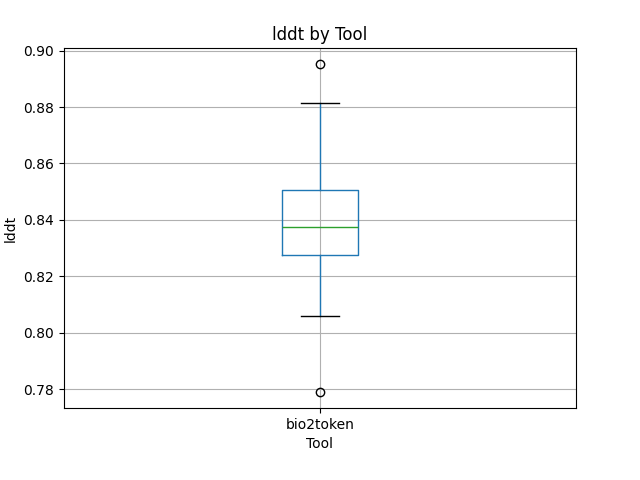
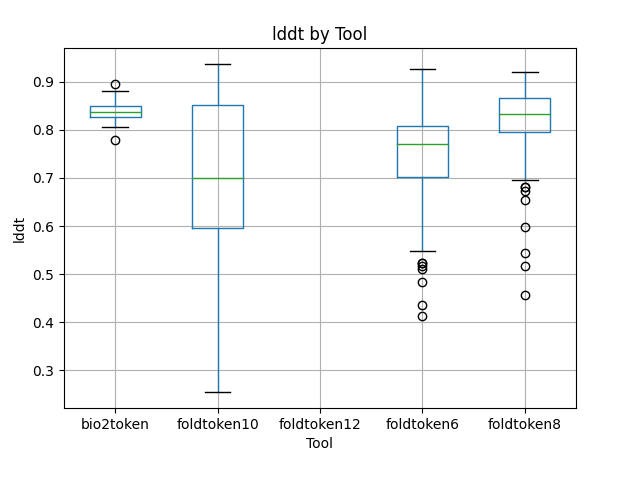
finished plots

diff --git a/tokenizer_benchmark/plot_results.py b/tokenizer_benchmark/plot_results.py
@@ -57,11 +57,11 @@ def boxplot(df, score, output_file):
 def main():
     bio2token_df = get_bio2token_data()
     foldtoken_df=get_foldtoken_data()
-    tokenizer_df=pd.concat(bio2token_df,foldtoken_df)
-    boxplot(tokenizer_df, "tmscore", "similarity_score/plots/tmscore_boxplot_bio2token.png")
-    boxplot(tokenizer_df, "tmscore_fs", "similarity_score/plots/tmscore_fs_boxplot_bio2token.png")
-    boxplot(tokenizer_df, "rmsd", "similarity_score/plots/rmsd_boxplot_bio2token.png")
-    boxplot(tokenizer_df, "lddt", "similarity_score/plots/lddt_boxplot_bio2token.png")
+    tokenizer_df=pd.concat([bio2token_df,foldtoken_df],ignore_index=True)
+    boxplot(tokenizer_df, "us_tmscore", "tokenizer_benchmark/plots/tmscore_boxplot_bio2token.png")
+    boxplot(tokenizer_df, "f_tmscore", "tokenizer_benchmark/plots/tmscore_fs_boxplot_bio2token.png")
+    boxplot(tokenizer_df, "rmsd", "tokenizer_benchmark/plots/rmsd_boxplot_bio2token.png")
+    boxplot(tokenizer_df, "lddt", "tokenizer_benchmark/plots/lddt_boxplot_bio2token.png")
 
 
 if __name__ == "__main__":
